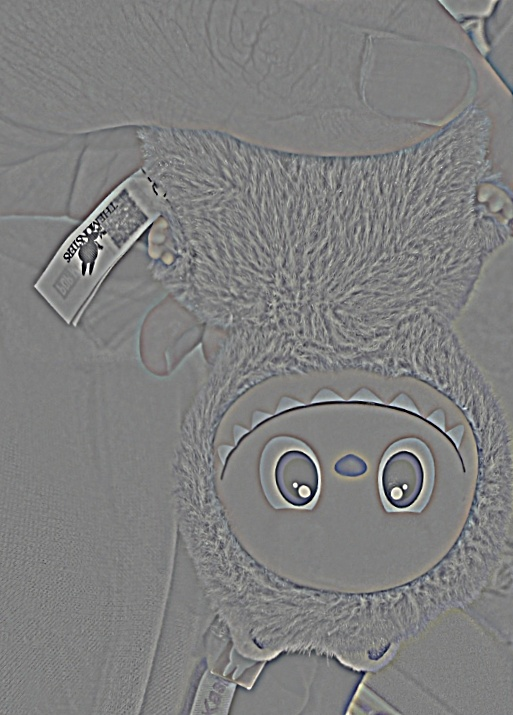
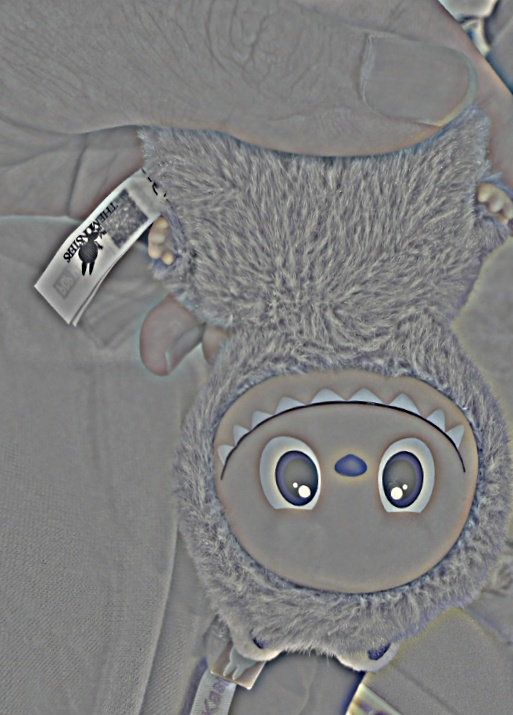
hybrid changes

diff --git a/proj2/index.html b/proj2/index.html
@@ -719,21 +719,23 @@ def hybrid_image(im1, im2, sigma1, sigma2, gain=1.0):
   </p>
   <p class="setup">
     The best settings depend on the images. Derek's face and Nutmeg's fur are large, and both look right at
-    &sigma;<sub>1</sub>&nbsp;=&nbsp;2.5 and &sigma;<sub>2</sub>&nbsp;=&nbsp;12. The two beach photos are much alike,
-    so I had to keep the frequencies far apart to see any difference, with a fine &sigma;<sub>1</sub>&nbsp;=&nbsp;1.5
-    and &sigma;<sub>2</sub>&nbsp;=&nbsp;8, and even then it stays subtle. The dessert photos are larger (862 px tall against
-    686 for Derek), so they take a larger &sigma;<sub>1</sub>&nbsp;=&nbsp;4. A Gaussian with standard deviation
-    &sigma; pixels has a frequency response that falls to 61% at 1/(2&pi;&sigma;) cycles per pixel, which I take as the
-    cutoff.
+    &sigma;<sub>1</sub>&nbsp;=&nbsp;2.5 and &sigma;<sub>2</sub>&nbsp;=&nbsp;12. For my own photos I pushed
+    &sigma;<sub>1</sub> up, which lowers the high-pass cutoff so that more of the first image gets through: 6 for
+    the labubu, 7 for the dessert (a larger photo, 862 px tall against 686 for Derek) and 3 for the bird. The price is
+    a weaker far view, because the extra mid-frequency detail from the first image is still visible after shrinking, so
+    I paired the larger &sigma;<sub>1</sub> with a smaller gain of 1.5 and, for the dessert, a wider low-pass
+    (&sigma;<sub>2</sub>&nbsp;=&nbsp;15). The two beach photos are so much alike that the far view stays weak
+    whatever I choose, so the bird is a compromise. A Gaussian with standard deviation &sigma; pixels has a frequency
+    response that falls to 61% at 1/(2&pi;&sigma;) cycles per pixel, which I take as the cutoff.
   </p>
 
   <table class="data-table">
     <thead><tr><th>Hybrid</th><th>High frequencies from</th><th>Low frequencies from</th><th>High-pass</th><th>Low-pass</th><th>Gain</th></tr></thead>
     <tbody>
       <tr><td>Derek and Nutmeg</td><td>Derek</td><td>Nutmeg</td><td class="num">&sigma; = 2.5 (0.064)</td><td class="num">&sigma; = 12 (0.013)</td><td class="num">2</td></tr>
-      <tr><td>Labubu</td><td>Purple doll</td><td>Brown doll</td><td class="num">&sigma; = 3 (0.053)</td><td class="num">&sigma; = 12 (0.013)</td><td class="num">2</td></tr>
-      <tr><td>Bird</td><td>First beach photo</td><td>Second beach photo</td><td class="num">&sigma; = 1.5 (0.106)</td><td class="num">&sigma; = 8 (0.020)</td><td class="num">2</td></tr>
-      <tr><td>Dessert</td><td>Meringue tart</td><td>Red pastry</td><td class="num">&sigma; = 4 (0.040)</td><td class="num">&sigma; = 12 (0.013)</td><td class="num">2</td></tr>
+      <tr><td>Labubu</td><td>Purple doll</td><td>Brown doll</td><td class="num">&sigma; = 6 (0.027)</td><td class="num">&sigma; = 12 (0.013)</td><td class="num">1.5</td></tr>
+      <tr><td>Bird</td><td>First beach photo</td><td>Second beach photo</td><td class="num">&sigma; = 3 (0.053)</td><td class="num">&sigma; = 8 (0.020)</td><td class="num">1.5</td></tr>
+      <tr><td>Dessert</td><td>Meringue tart</td><td>Red pastry</td><td class="num">&sigma; = 7 (0.023)</td><td class="num">&sigma; = 15 (0.011)</td><td class="num">1.5</td></tr>
     </tbody>
   </table>
   <p class="sub" style="max-width:40rem">&sigma; is in pixels, and the cutoff in cycles per pixel is in brackets.</p>

diff --git a/proj2/part2.py b/proj2/part2.py
@@ -74,9 +74,9 @@ def run_part2p2(path_to_img_folder):
     # The alignment points are (x, y) picked by hand instead of clicking: two on the first image, then the matching two on the second
     hybrids = [
         ("derek_nutmeg", "DerekPicture.jpg", "nutmeg.jpg", ((296, 344), (444, 332), (600, 289), (749, 367)), 2.5, 12, 2),
-        ("labubu", "labubu_pair_1.jpg", "labubu_pair_2.jpg", ((418, 664), (559, 675), (314, 691), (420, 692)), 3, 12, 2),
-        ("bird", "bird_pair_1.jpg", "bird_pair_2.jpg", ((278, 633), (217, 694), (231, 619), (198, 652)), 1.5, 8, 2),
-        ("dessert", "dessert_pair_2.jpg", "dessert_pair_1.jpg", ((350, 236), (350, 636), (357, 214), (436, 671)), 4, 12, 2),
+        ("labubu", "labubu_pair_1.jpg", "labubu_pair_2.jpg", ((418, 664), (559, 675), (314, 691), (420, 692)), 6, 12, 1.5),
+        ("bird", "bird_pair_1.jpg", "bird_pair_2.jpg", ((278, 633), (217, 694), (231, 619), (198, 652)), 3, 8, 1.5),
+        ("dessert", "dessert_pair_2.jpg", "dessert_pair_1.jpg", ((350, 236), (350, 636), (357, 214), (436, 671)), 7, 15, 1.5),
     ]
     for name, high_name, low_name, pts, sigma_high, sigma_low, gain in hybrids:
         im1 = load_rgb(os.path.join(path_to_img_folder, high_name))
